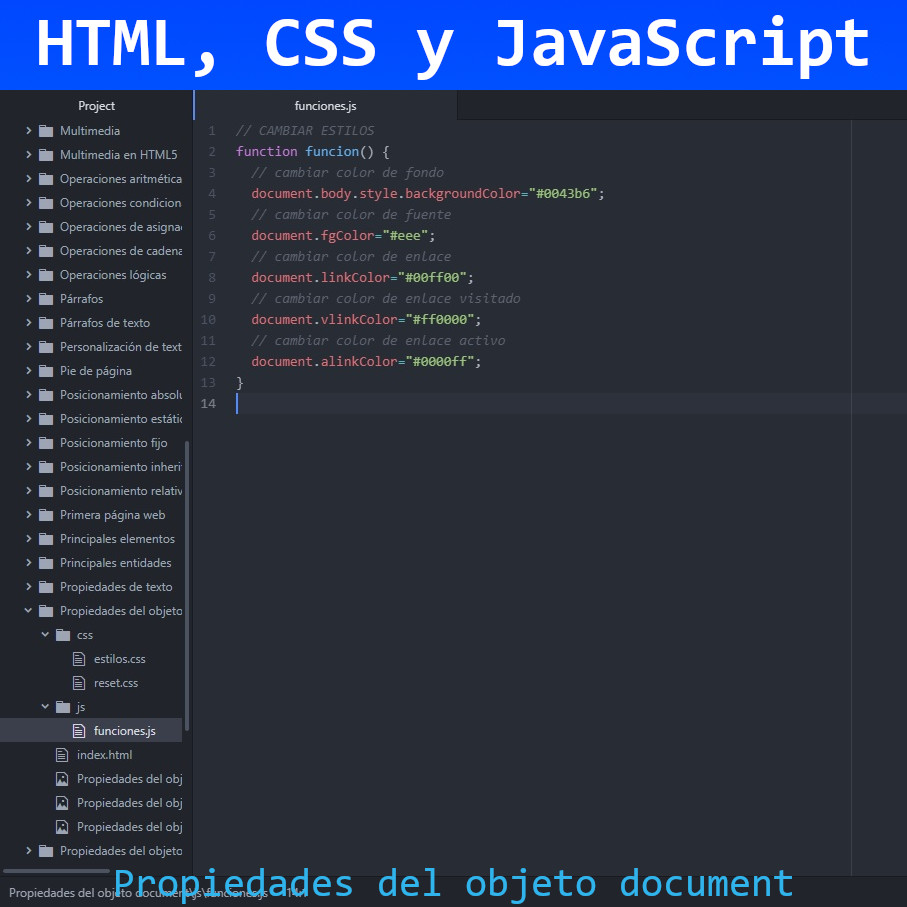
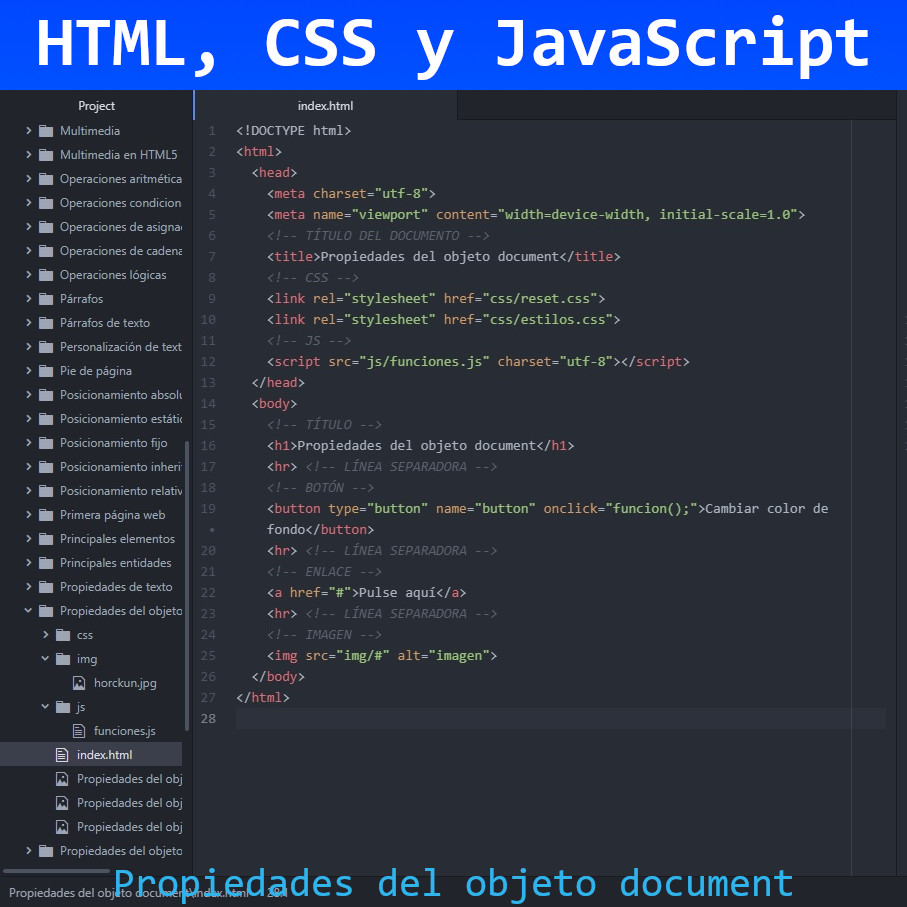
Propiedades del objeto document
Propiedades del objeto document en JavaScript

diff --git a/HTML, CSS y JavaScript/Propiedades del objeto document/js/funciones.js b/HTML, CSS y JavaScript/Propiedades del objeto document/js/funciones.js
@@ -10,4 +10,6 @@ function funcion() {
   document.vlinkColor="#ff0000";
   // cambiar color de enlace activo
   document.alinkColor="#0000ff";
+  // cambiar una imagen por otra
+  document.images[0].src="img/horckun.jpg";
 }

diff --git a/HTML, CSS y JavaScript/Propiedades del objeto document/index.html b/HTML, CSS y JavaScript/Propiedades del objeto document/index.html
@@ -20,5 +20,8 @@
     <hr> <!-- LÍNEA SEPARADORA -->
     <!-- ENLACE -->
     <a href="#">Pulse aquí</a>
+    <hr> <!-- LÍNEA SEPARADORA -->
+    <!-- IMAGEN -->
+    <img src="img/#" alt="imagen">
   </body>
 </html>
